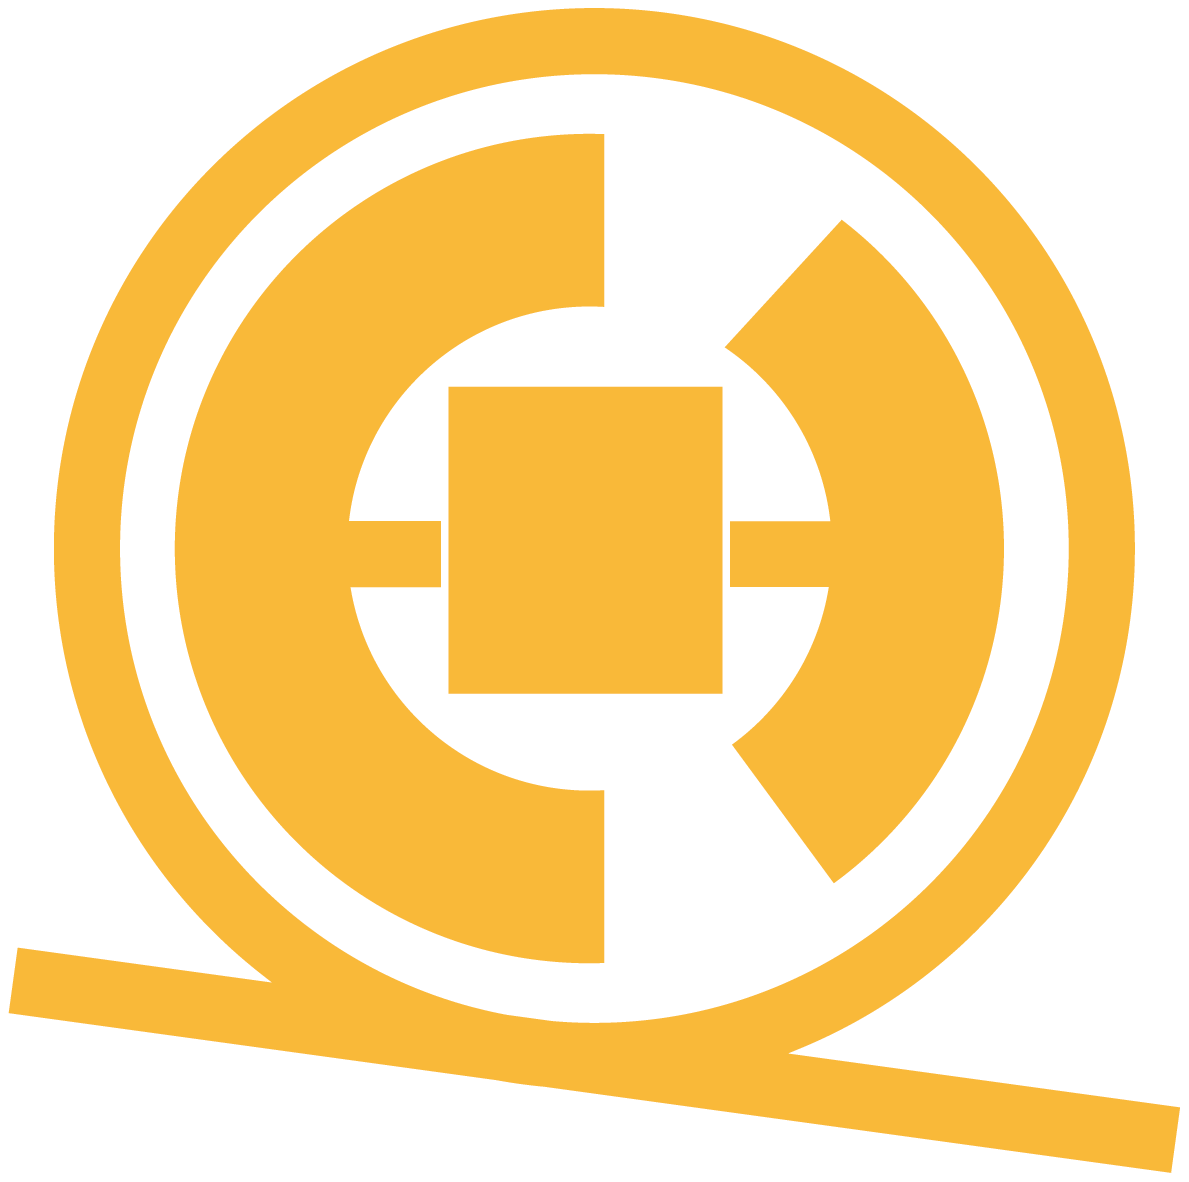
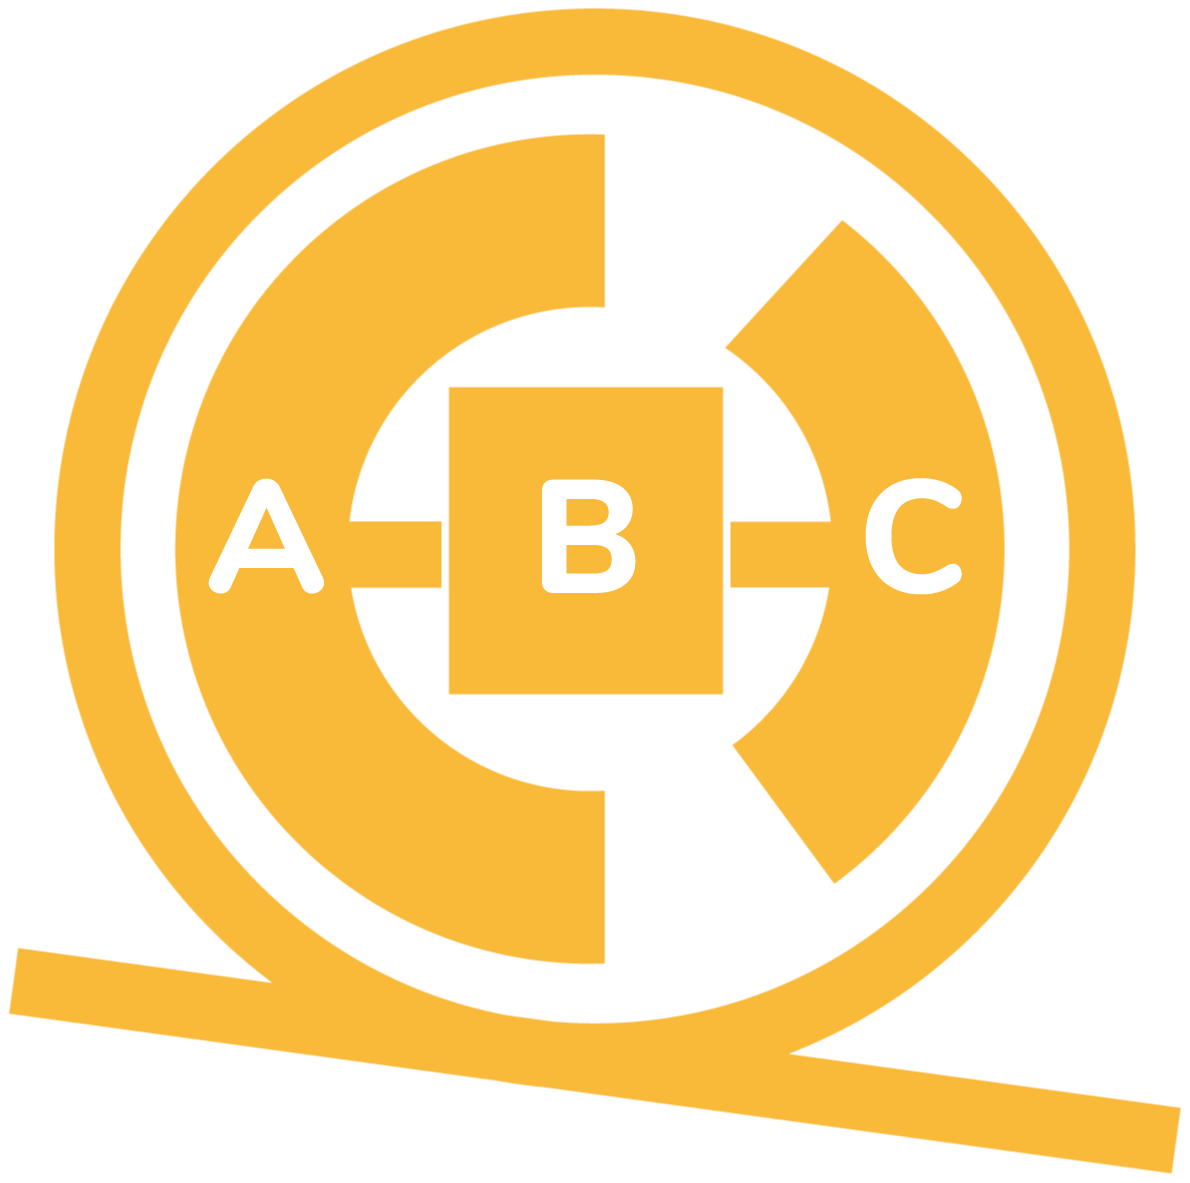
tinggal input desc dan spcPlace

Changed region(s): [[0.4357, 0.3959, 0.5601, 0.5178], [0.1556, 0.3959, 0.2801, 0.5178], [0.7157, 0.3959, 0.8091, 0.5178]]

diff --git a/Info Fasilkom/Part2.js b/Info Fasilkom/Part2.js
@@ -1,53 +1,126 @@
 let state = {
     partActive:"old",
+    indexActive:0
 }
 
 const OldBuilding = [{
-    desc:"Gedung Lama",
+    name:"Gedung<br>Lama",
     img:"../Asset Info Fasilkom/Peta/Gedung Lama/Bentuk Gedung.png",
     id:"old-0",
-    active:true
+    square:true,
+    desc:[
+        "A : Gedung A (Gedung Belakang)",
+        "B : Gedung B (Gedung Tengah)",
+        "C : Gedung C (Gedung Depan)",
+        "D : Tenda Putih"
+    ],
+    spcPlace:[
+        "1 : Yuli (Kayu Liar)"
+    ]
 },{
-    desc:"Lantai 1<br>Gedung A",
+    name:"Lantai 1<br>Gedung A",
     img:"../Asset Info Fasilkom/Peta/Gedung Lama/Lantai 1.png",
     id:"old-1",
-    active:false
+    square:false,
+    desc:[
+
+    ]
 },{
-    desc:"Lantai 1<br>Gedung B",
+    name:"Lantai 1<br>Gedung B",
     img:"../Asset Info Fasilkom/Peta/Gedung Lama/Asset 12.png",
     id:"old-2",
-    active:false
+    square:true
 },{
-    desc:"Lantai 2<br>Gedung B",
+    name:"Lantai 2<br>Gedung B",
     img:"../Asset Info Fasilkom/Peta/Gedung Lama/Asset 11.png",
     id:"old-3",
-    active:false
+    square:true
 },{
-    desc:"Lantai 3<br>Gedung B",
+    name:"Lantai 3<br>Gedung B",
     img:"../Asset Info Fasilkom/Peta/Gedung Lama/Asset 7.png",
     id:"old-4",
-    active:false
+    square:true
 },{
-    desc:"Lantai 4<br>Gedung B",
+    name:"Lantai 4<br>Gedung B",
     img:"../Asset Info Fasilkom/Peta/Gedung Lama/Asset 8.png",
     id:"old-5",
-    active:false
+    square:true
 },{
-    desc:"Lantai 5<br>Gedung B",
+    name:"Lantai 5<br>Gedung B",
     img:"../Asset Info Fasilkom/Peta/Gedung Lama/Asset 9.png",
     id:"old-6",
-    active:false
+    square:true
 },{
-    desc:"Lantai 6<br>Gedung B",
+    name:"Lantai 6<br>Gedung B",
     img:"../Asset Info Fasilkom/Peta/Gedung Lama/Asset 14.png",
     id:"old-7",
-    active:false
+    square:true
+},{
+    name:"Lantai 1<br>Gedung C",
+    img:"../Asset Info Fasilkom/Peta/Gedung Lama/Asset 3_1.png",
+    id:"old-8",
+    square:false
+
 }]
 
 let imgComp = document.createDocumentFragment();
-Data.forEach(obj =>{
+OldBuilding.forEach(obj =>{
     let imgDOM = document.createElement('img');
     imgDOM.classList.add("fadein","img-fluid","peta","p-1");
-    imgDOM.style="height: 80%;width: 80%;";
-
+    if(obj.square){
+        imgDOM.style="max-height: 80%;max-width: 80%; background-color: #6262627d; border-radius: 10px;";    
+    }else{
+        imgDOM.style="max-height: 80%;max-width: 50%; background-color: #6262627d; border-radius: 10px;";
+    }
+    imgDOM.src=obj.img;
+    imgDOM.id =obj.id;
+    imgDOM.style.display="none";
+    imgComp.appendChild(imgDOM);
 })
+document.getElementById("map-image").appendChild(imgComp);
+
+function createDesc(list){
+    let olDOM = document.createElement('ol');
+    list.forEach(obj => {
+        let text = document.createElement('h4');
+        text.classList.add("text-left","mb-3");
+        text.innerHTML = obj;
+        olDOM.appendChild(text);
+    })
+    return olDOM;
+}
+
+function changeMap(index){
+    let temp1=document.getElementsByClassName("peta");
+    let olDOM1 = document.getElementById("map-desc");
+    let olDOM2 = document.getElementById("istilah-tempat");
+    olDOM1.innerHTML="";
+    olDOM2.innerHTML="";
+    for(let i = 0;i<temp1.length;i++){
+        temp1[i].style.display="none";
+    }
+    if(state.partActive === "old"){
+        document.getElementById("desc-lantai").innerHTML=OldBuilding[index].name;
+        olDOM1.appendChild(createDesc(OldBuilding[index].desc));
+        olDOM2.appendChild(createDesc(OldBuilding[index].spcPlace));
+    }
+    document.getElementById(state.partActive+"-"+index.toString()).style.display="";
+}
+
+function nextMap(){
+    state.indexActive += 1;
+    if(state.indexActive>OldBuilding.length-1){
+        state.indexActive = 0;
+    }
+    changeMap(state.indexActive);
+}
+
+function prevMap(){
+    state.indexActive -= 1;
+    if(state.indexActive<0){
+        state.indexActive = OldBuilding.length-1;
+    }
+    changeMap(state.indexActive);
+}
+
+changeMap(0);

diff --git a/Info Fasilkom/fasilkom.html b/Info Fasilkom/fasilkom.html
@@ -94,30 +94,26 @@
               Gedung<br>Lama
             </h2></button>
     </div>
-    <div id="map-container" >
-      <div class="navigation pt-2 px-2 justify-content-md-center mb-4">
-        <button class="prev"><img src="../Asset Info Fasilkom/Previous.svg" alt="" class="img-fluid" ></button>
-          <h2 style="white-space: nowrap;" id="desc-lantai" class="mx-3 py-3 text-center lantai">Lantai 1<br>Gedung A</h2>
-        <button class="next"><img src="../Asset Info Fasilkom/Next.svg" alt="" class="img-fluid" ></button>
+    <div id="map-container" class="pt-1" >
+      <div class="row navigation pt-2 px-2 justify-content-center mb-4">
+        <button onclick="prevMap()" class="col-sm prev" style="height: 95px; max-width: 150px;"><img src="../Asset Info Fasilkom/Previous.svg" alt="" class="img-fluid"  ></button>
+          <h2 style="white-space: nowrap; max-width: 200px;" id="desc-lantai" class="col-sm-4 py-3 text-center lantai">Lantai 1<br>Gedung A</h2>
+        <button class="next col-sm" onclick="nextMap()" style="height: 95px; max-width: 150px;"><img src="../Asset Info Fasilkom/Next.svg" alt="" class="img-fluid" ></button>
       </div>
-      <div class="map-content">
-          <div class="row justify-content-md-center mb-3 p-1">
-            <div style="max-height: 450px; max-width: 400px;  background-color: #6262627d; border-radius: 10px; align-self: center;" id="map-image" class="col-lg-5 map-picture text-center p-1">
-              <img src="../Asset Info Fasilkom/Peta/Gedung Lama/Bentuk Gedung.png" alt="" class="fadein img-fluid peta p-1" style="height: 80%;width: 80%;">
+      <div class="map-content justify-content-center">
+          <div class="row justify-content-center mb-3 p-1">
+            <div style="max-height: 450px; width: 400px; align-self: center;" id="map-image" class="col-lg-5 map-picture text-center p-1">
             </div>
-            <div class="map-desc col-md-5 text-left">
+            <div class="map-desc col-md-5 text-left pt-3">
               <h4 class="text-center">Keterangan:</h3>
-                <div id="map-desc" style="font-size: 26px;">
-                  <ol>
-                    <li><h4>Test</h4></li>
-                  </ol>
+                <div id="map-desc" class="p-1" style="font-size: 26px;">
                 </div>
             </div>
           </div>
-          <div class="row text-center justify-content-md-center">
-            <div class="col">
+          <div class="row text-center justify-content-center">
+            <div class="col-md-6">
               <h4 class="">Istilah Tempat:</h3>
-                <div id="istilah-tempat">
+                <div id="istilah-tempat" style="font-size: 26px;">
                 </div>
             </div>
           </div>
@@ -131,5 +127,6 @@
 <script src="https://stackpath.bootstrapcdn.com/bootstrap/4.3.1/js/bootstrap.min.js" integrity="sha384-JjSmVgyd0p3pXB1rRibZUAYoIIy6OrQ6VrjIEaFf/nJGzIxFDsf4x0xIM+B07jRM" crossorigin="anonymous"></script>
 <script src="./fasilkom.js"></script>
 <script src="./Part1.js"></script>
+<script src="./Part2.js"></script>
 </body>
 </html>

diff --git a/Info Fasilkom/fasilkom.css b/Info Fasilkom/fasilkom.css
@@ -161,13 +161,7 @@ button{
     border: none;
 }
 
-.prev,.next,.lantai{
-    flex: 0.1;
-}
-
 .navigation{
-    display: flex;
-    flex-direction: row;
     justify-content: center;
     align-content: center;
 }
